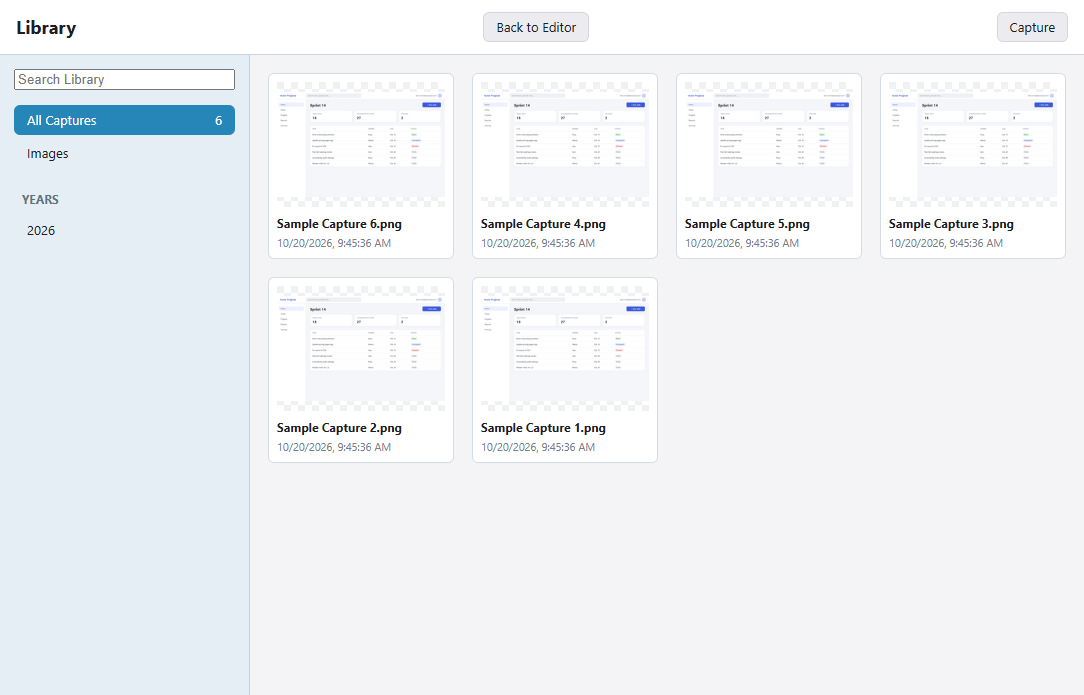
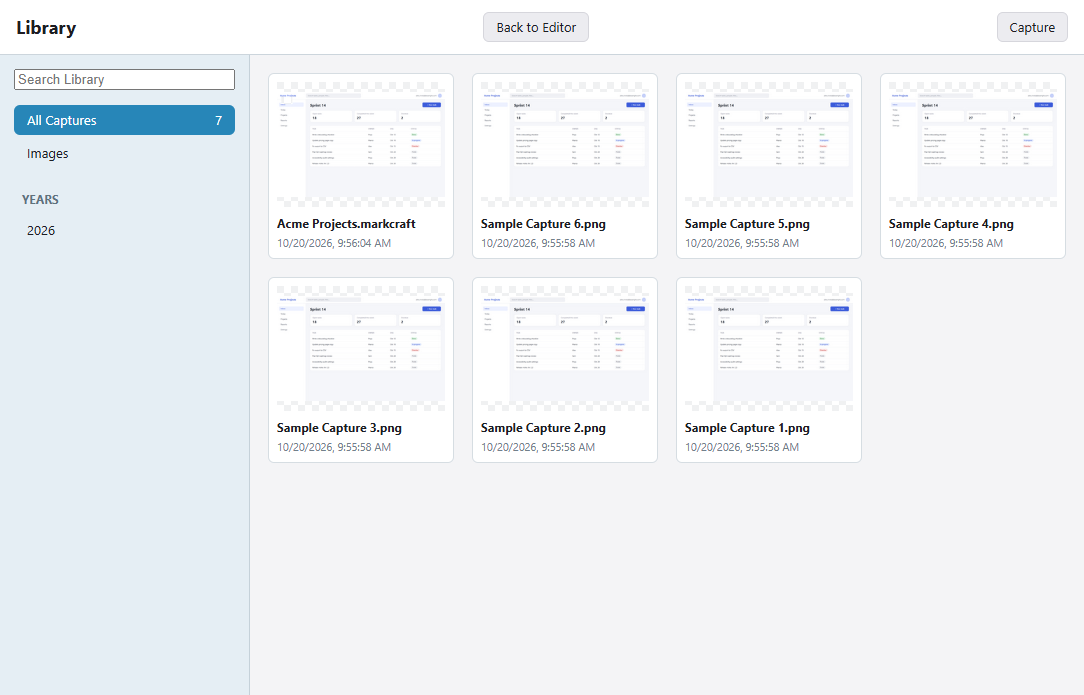
Preserve editable capture changes

diff --git a/src/renderer/editor/main.ts b/src/renderer/editor/main.ts
@@ -40,6 +40,8 @@ const QUICK_STYLES: { label: string; color: string; width: number; fontSize: num
 let filePath: string | null = null
 let title = 'Markcraft'
 let activeTool: ToolName = 'arrow'
+let dirty = false
+let autoSaveTimer = 0
 
 const doc = new EditorDoc($<HTMLCanvasElement>('canvas'))
 const history = new History(doc)
@@ -339,13 +341,31 @@ function flash(text: string): void {
 }
 
 function markDirty(): void {
+  dirty = true
   document.title = `${title} — edited`
+  clearTimeout(autoSaveTimer)
+  autoSaveTimer = window.setTimeout(() => void persistEdits(), 700)
 }
 
 function markSaved(path: string): void {
   filePath = path
   title = path.split(/[\\/]/).pop() ?? title
   document.title = title
+  dirty = false
+}
+
+async function persistEdits(): Promise<void> {
+  if (!dirty) return
+  clearTimeout(autoSaveTimer)
+  dirty = false
+  try {
+    filePath = await api.autoSaveDoc(filePath, title, doc.toSnapDoc())
+    document.title = title
+    await loadRecent()
+  } catch (error) {
+    dirty = true
+    flash(`Auto-save failed: ${(error as Error).message}`)
+  }
 }
 
 async function loadRecent(): Promise<void> {
@@ -362,12 +382,18 @@ async function loadRecent(): Promise<void> {
     image.src = item.thumbnail
     image.alt = item.name
     button.append(image)
-    button.addEventListener('click', () => void api.openLibraryItem(item.filePath))
+    button.addEventListener('click', async () => {
+      await persistEdits()
+      await api.openLibraryItem(item.filePath)
+    })
     list.append(button)
   }
 }
 
-$('recent-library').addEventListener('click', () => void api.openLibrary())
+$('recent-library').addEventListener('click', async () => {
+  await persistEdits()
+  await api.openLibrary()
+})
 $('recent-capture').addEventListener('click', () => void api.openCaptureWindow())
 $('recent-toggle').addEventListener('click', () => {
   const panel = $('recent-panel')
@@ -606,6 +632,8 @@ api.onMenu((cmd) => void commands[cmd]?.())
 // ---- startup ------------------------------------------------------------------------
 
 async function loadEditor(init: Awaited<ReturnType<typeof api.editorInit>>): Promise<void> {
+  clearTimeout(autoSaveTimer)
+  dirty = false
   title = init.title
   document.title = title
   filePath = init.filePath ?? null

diff --git a/src/main/library.ts b/src/main/library.ts
@@ -1,6 +1,6 @@
 import { app, nativeImage, type NativeImage } from 'electron'
 import { mkdirSync, readdirSync, readFileSync, statSync, writeFileSync } from 'node:fs'
-import { join } from 'node:path'
+import { basename, extname, join } from 'node:path'
 import type { LibraryItem, SnapDoc } from '../shared/types'
 import { getSettings } from './settings'
 
@@ -29,7 +29,7 @@ const LIBRARY_FILE = /\.(markcraft|png|jpe?g|gif|webp|bmp)$/i
 export function listCaptures(limit = 500): LibraryItem[] {
   const dir = capturesDir()
   mkdirSync(dir, { recursive: true })
-  return readdirSync(dir)
+  const items = readdirSync(dir)
     .filter((name) => LIBRARY_FILE.test(name))
     .map((name) => {
       const filePath = join(dir, name)
@@ -57,6 +57,12 @@ export function listCaptures(limit = 500): LibraryItem[] {
       }
     })
     .filter((item): item is LibraryItem => item !== null)
-    .sort((a, b) => b.modified - a.modified)
-    .slice(0, Math.max(1, limit))
+    .sort((a, b) => b.modified - a.modified || Number(b.kind === 'document') - Number(a.kind === 'document'))
+  const seen = new Set<string>()
+  return items.filter((item) => {
+    const stem = basename(item.name, extname(item.name)).toLowerCase()
+    if (seen.has(stem)) return false
+    seen.add(stem)
+    return true
+  }).slice(0, Math.max(1, limit))
 }

diff --git a/src/main/editor.ts b/src/main/editor.ts
@@ -8,8 +8,8 @@ import {
   screen,
   type NativeImage
 } from 'electron'
-import { readFileSync, writeFileSync } from 'node:fs'
-import { basename, extname } from 'node:path'
+import { mkdirSync, readFileSync, writeFileSync } from 'node:fs'
+import { basename, extname, join } from 'node:path'
 import type { EditorInit, SaveRequest, SnapDoc } from '../shared/types'
 import { autoSaveCapture, capturesDir, timestampName } from './library'
 import { warmOcr } from './ocr'
@@ -154,4 +154,14 @@ ipcMain.handle('file:save-as', async (e, req: SaveRequest) => {
 ipcMain.handle('file:save-doc', (_e, filePath: string, doc: SnapDoc) => {
   if (extname(filePath).toLowerCase() !== '.markcraft') throw new Error('Not a .markcraft path')
   writeFileSync(filePath, JSON.stringify(doc))
+})
+
+ipcMain.handle('file:auto-save-doc', (_e, sourcePath: string | null, title: string, doc: SnapDoc) => {
+  mkdirSync(capturesDir(), { recursive: true })
+  const sourceName = sourcePath ? basename(sourcePath, extname(sourcePath)) : title.replace(/\.[^.]+$/, '')
+  const filePath = sourcePath?.toLowerCase().endsWith('.markcraft')
+    ? sourcePath
+    : join(capturesDir(), `${sourceName}.markcraft`)
+  writeFileSync(filePath, JSON.stringify(doc))
+  return filePath
 })

diff --git a/src/preload/index.ts b/src/preload/index.ts
@@ -34,6 +34,8 @@ const api = {
   saveAs: (req: SaveRequest): Promise<string | null> => ipcRenderer.invoke('file:save-as', req),
   saveDoc: (filePath: string, doc: SnapDoc): Promise<void> =>
     ipcRenderer.invoke('file:save-doc', filePath, doc),
+  autoSaveDoc: (sourcePath: string | null, title: string, doc: SnapDoc): Promise<string> =>
+    ipcRenderer.invoke('file:auto-save-doc', sourcePath, title, doc),
   ocr: (dataUrl: string): Promise<string> => ipcRenderer.invoke('ocr:recognize', dataUrl),
   onMenu: (cb: (cmd: MenuCommand) => void): void => {
     ipcRenderer.on('menu', (_e, cmd: MenuCommand) => cb(cmd))
@@ -43,6 +45,7 @@ const api = {
   runCapture: (mode: 'region' | 'window' | 'screen' | 'scroll' | 'record'): Promise<void> =>
     ipcRenderer.invoke('capture:run', mode),
   openCaptureWindow: (): Promise<void> => ipcRenderer.invoke('capture:show'),
+  openEditor: (): Promise<void> => ipcRenderer.invoke('editor:open'),
   openLibrary: (): Promise<void> => ipcRenderer.invoke('library:show'),
   showEditor: (): Promise<boolean> => ipcRenderer.invoke('editor:show'),
   libraryItems: (limit?: number): Promise<LibraryItem[]> => ipcRenderer.invoke('library:list', limit),

diff --git a/src/renderer/capture/main.ts b/src/renderer/capture/main.ts
@@ -20,4 +20,4 @@ document.querySelectorAll<HTMLButtonElement>('[data-mode]').forEach((button) => 
 })
 document.getElementById('capture')!.addEventListener('click', () => void api.runCapture(mode))
 document.getElementById('library')!.addEventListener('click', () => void api.openLibrary())
-document.getElementById('open-editor')!.addEventListener('click', () => void api.openLibrary())
+document.getElementById('open-editor')!.addEventListener('click', () => void api.openEditor())

diff --git a/src/main/index.ts b/src/main/index.ts
@@ -98,6 +98,12 @@ function showLibrary(): void {
 }
 
 ipcMain.handle('capture:show', () => showCaptureWindow())
+ipcMain.handle('editor:open', () => {
+  if (showEditor()) return
+  const newest = listCaptures(1)[0]
+  if (newest) openPath(newest.filePath)
+  else void openFileDialog()
+})
 ipcMain.handle('library:show', (event) => {
   showLibrary()
   const source = BrowserWindow.fromWebContents(event.sender)

diff --git a/docs/editor-roadmap.md b/docs/editor-roadmap.md
@@ -34,6 +34,8 @@ Selection work has begun by separating annotation **Move** from pixel **Selectio
 
 Clipboard images can be pasted as centered movable pixel layers. Selection Background Fill can use transparency or an initial Auto-Fill approximation based on colors sampled around the selected area; a later milestone can replace this deterministic fill with content-aware synthesis for complex backgrounds.
 
+Edited captures are automatically persisted as editable `.markcraft` sidecars in `Pictures/Markcraft`. The Library and recent strip collapse each original PNG/Markcraft pair into one item and prefer the editable document, so annotations and layers survive switching captures and restarting Markcraft. The Capture window's Open Editor action restores the current editor or opens the newest saved capture.
+
 Validation for this milestone passed on October 19, 2026: TypeScript checking, all seven unit tests, the production build, the native Electron editor smoke test, and screenshot generation. The smoke test covered drawing, undo/redo, exact crop dimensions, editable document saving, and burned-in redactions. Updated editor, OCR and selection screenshots are stored in `docs/screenshots/`.
 
 Deliver one complete editing workflow: **open a screenshot, choose a tool, draw an annotation, adjust its appearance, undo a change, then copy or save the result**.
